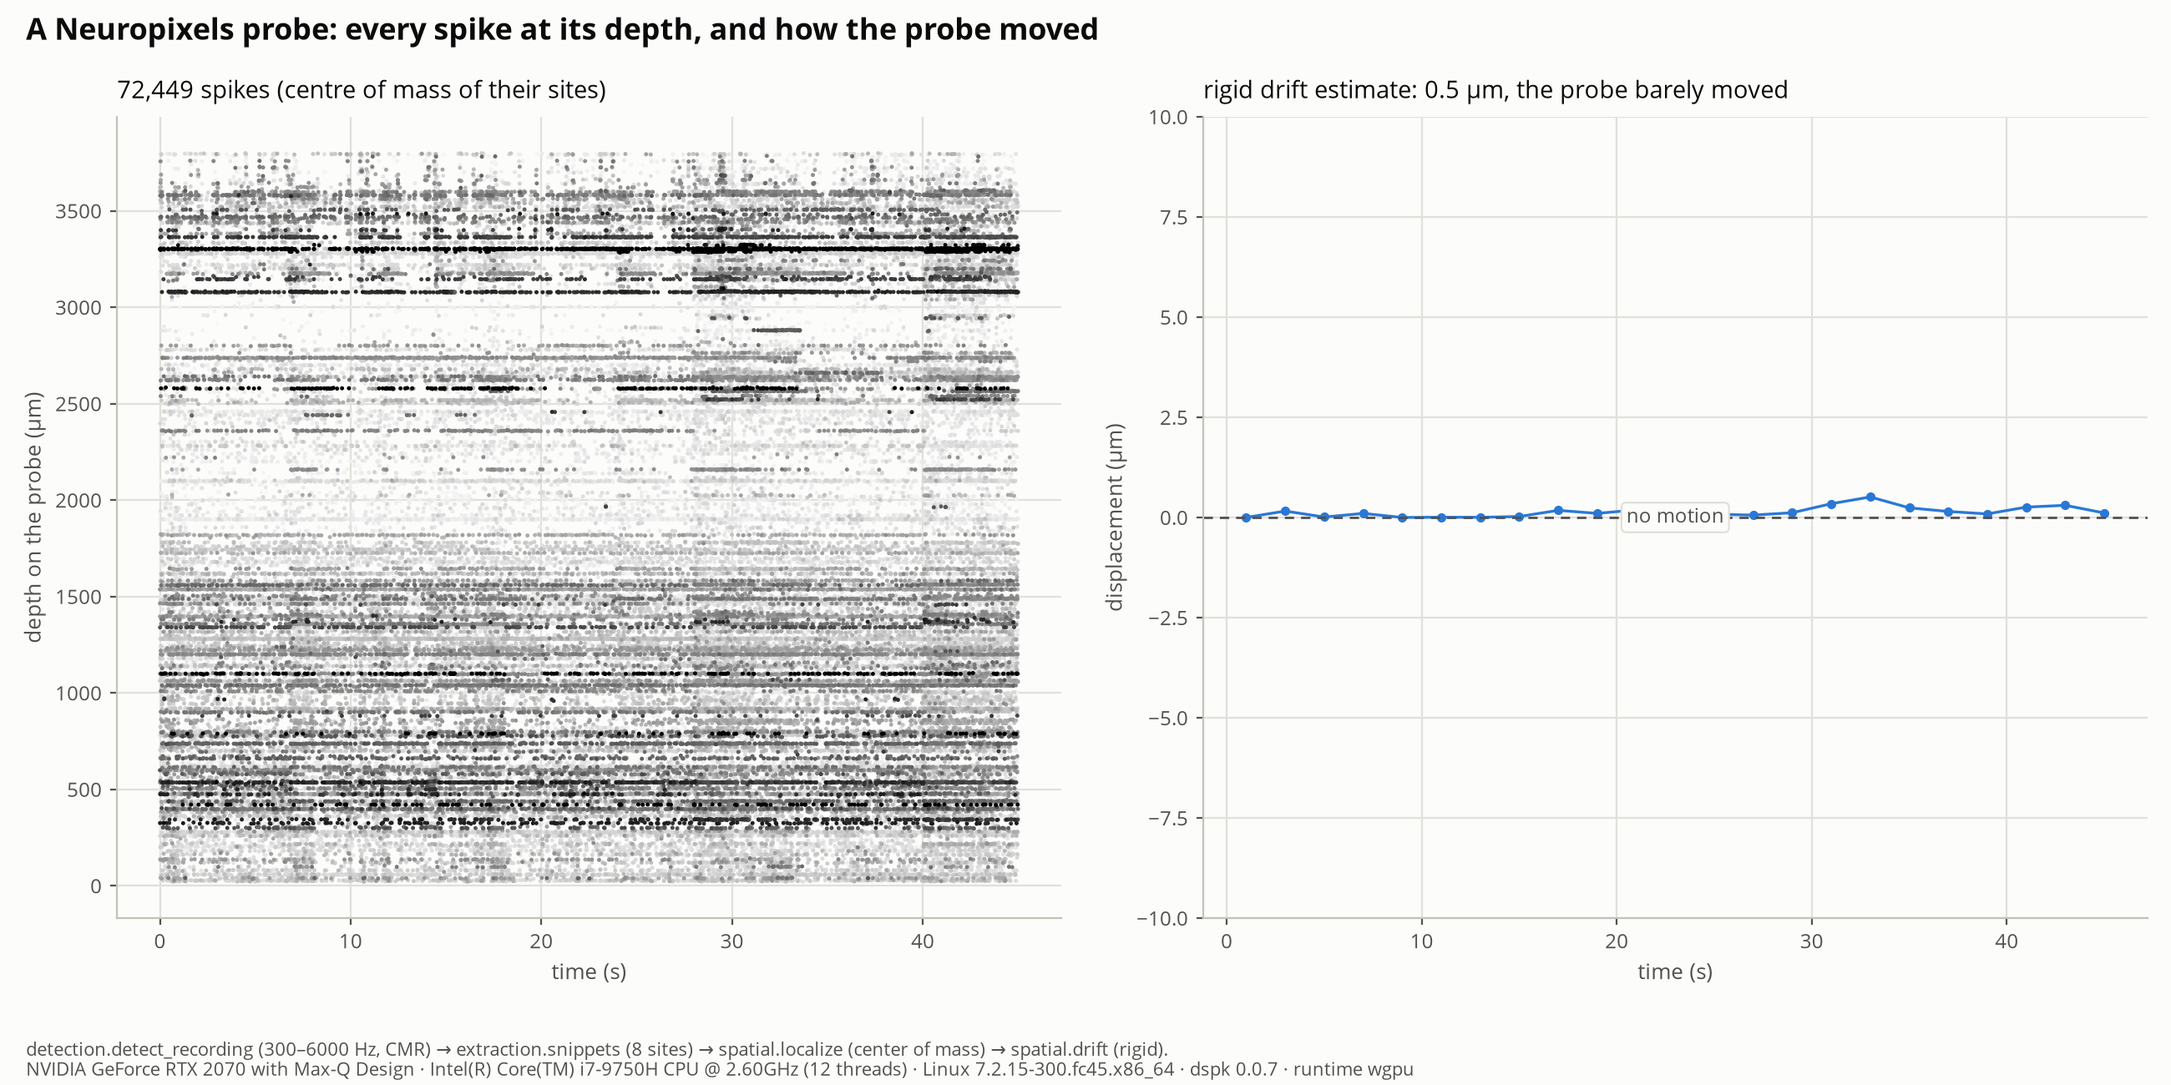
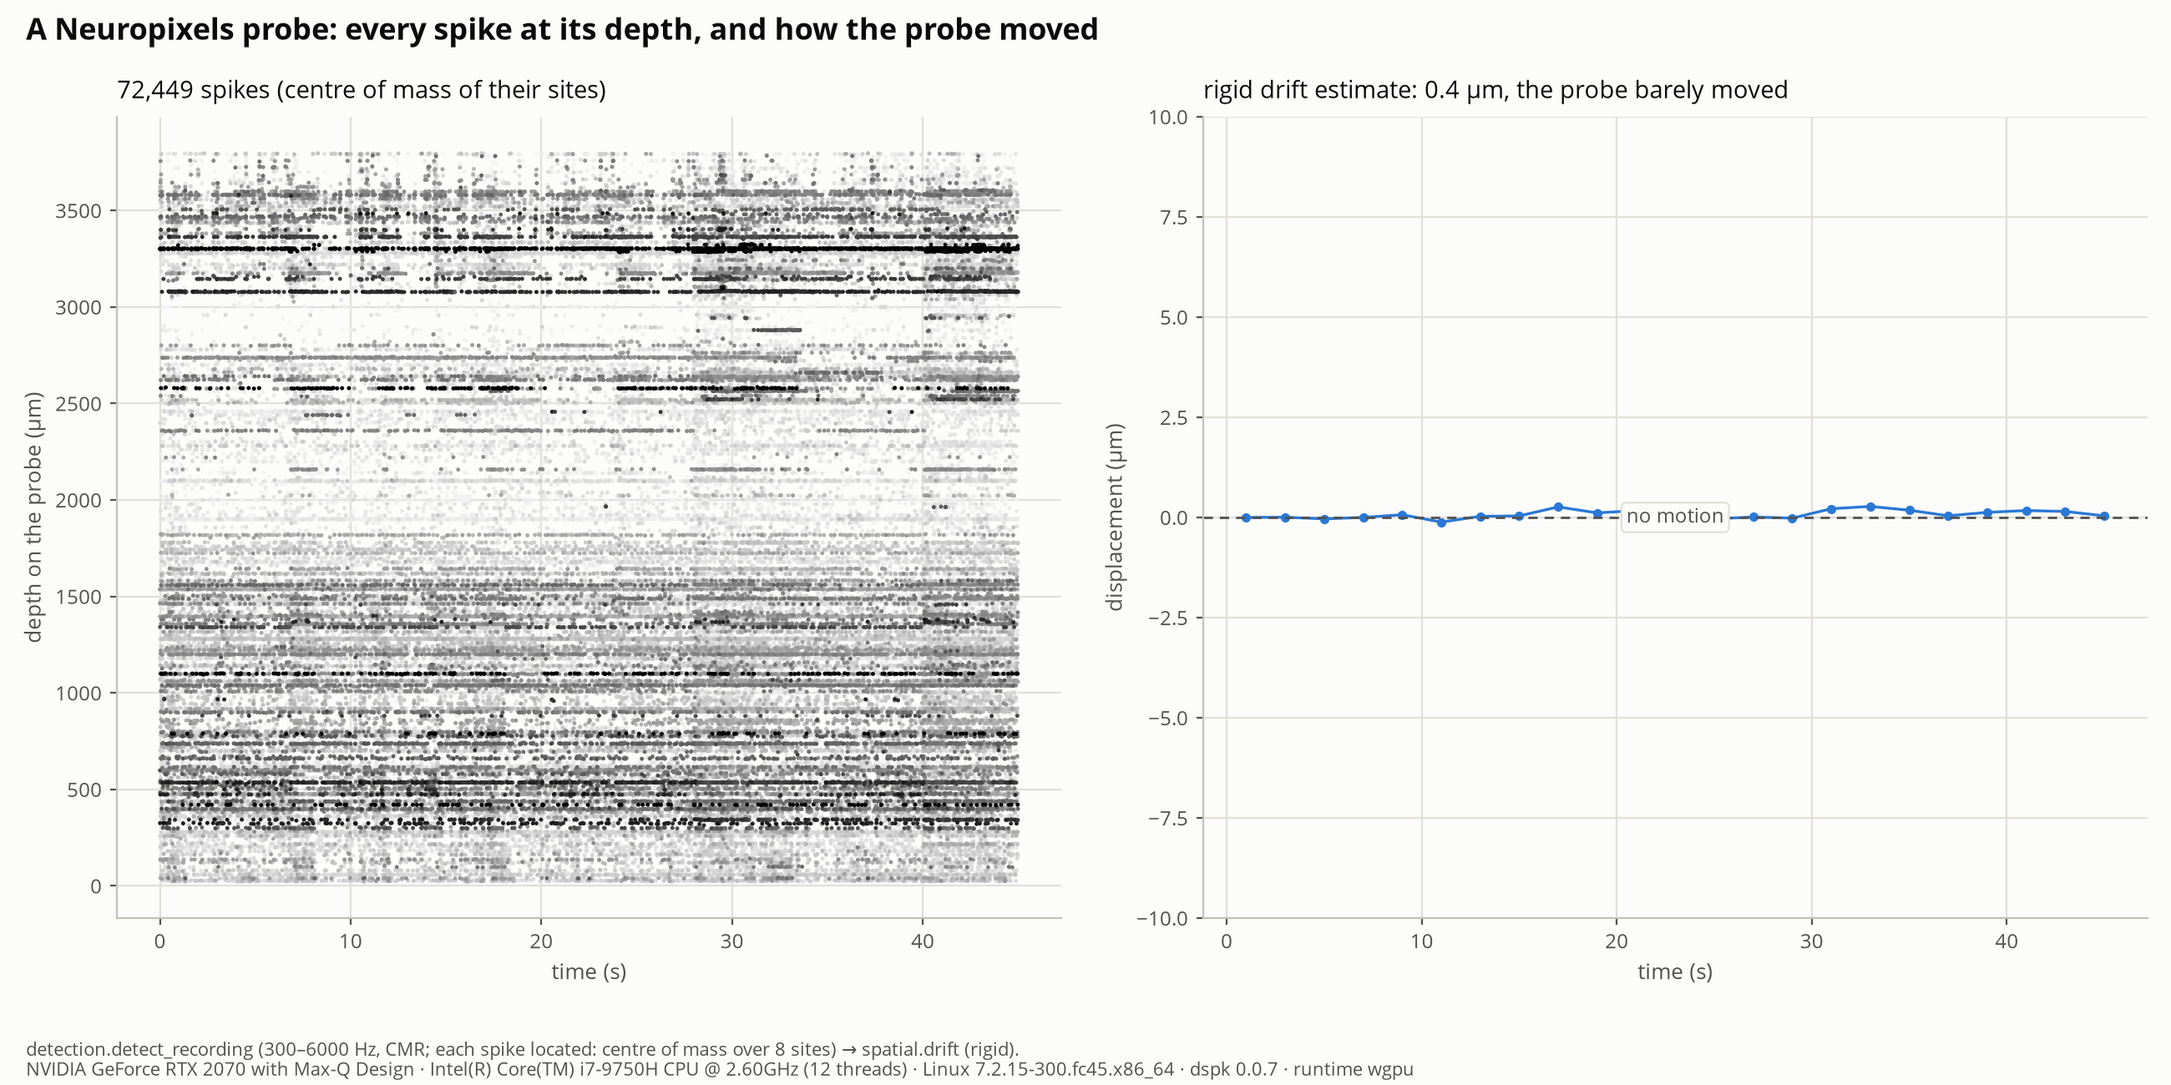
synapse: the streaming detector locates every spike (peak-to-peak of its snippet over its K neighbours on the device, centre of mass on the host; locate setting, dspk detect --locate, detect_recording(locate=True)); sortings carry the locations instead of NaN; playground 09 uses them

diff --git a/synapse/dspk-synapse/src/streaming/runner.rs b/synapse/dspk-synapse/src/streaming/runner.rs
@@ -17,7 +17,12 @@ use crate::detection::{SpikeSpacing, StreamingDedup, detection_heights, execute_
 use crate::extraction::{execute_extract_sinc_in_vram, extraction_margin};
 use super::accumulator::TemplateAccumulator;
 use super::config::StreamingDetectionConfig;
-use super::kernels::execute_reduce_templates_in_vram;
+use super::kernels::{execute_reduce_templates_in_vram, execute_snippet_peak_to_peak};
+use crate::spatial::localize_spike_center_of_mass;
+
+/// Exponent of the peak-to-peak heights in the centre of mass that locates each spike (1: the
+/// heights themselves, as `CenterOfMassLocalizer`'s default).
+pub const LOCATION_POWER: f32 = 1.0;
 
 /// Result of running out-of-core threshold spike sorting over a recording.
 #[derive(Debug, Clone)]
@@ -42,6 +47,9 @@ pub struct StreamingDetectionResult {
     pub channel_templates: Vec<Option<WaveformTemplate>>,
     /// Deduplicated spike events with global `sample_index` across the recording.
     pub spikes: Vec<DeduplicatedSpike>,
+    /// Location of each spike of `spikes` (µm, centre of mass over its K neighbours); empty when
+    /// not located (`StreamingDetectionConfig::locate`).
+    pub spike_locations_um: Vec<[f32; 3]>,
 }
 
 impl StreamingDetectionResult {
@@ -54,10 +62,15 @@ impl StreamingDetectionResult {
     ) -> SortingOutput {
         let mut per_ch_samples: Vec<Vec<u64>> = vec![Vec::new(); self.channels];
         let mut per_ch_amps: Vec<Vec<f32>> = vec![Vec::new(); self.channels];
-        for s in &self.spikes {
+        let mut per_ch_locs: Vec<Vec<[f32; 3]>> = vec![Vec::new(); self.channels];
+        let located = self.spike_locations_um.len() == self.spikes.len();
+        for (i, s) in self.spikes.iter().enumerate() {
             if s.primary_channel < self.channels {
                 per_ch_samples[s.primary_channel].push(s.sample_index);
                 per_ch_amps[s.primary_channel].push(s.peak_amplitude_uv);
+                if located {
+                    per_ch_locs[s.primary_channel].push(self.spike_locations_um[i]);
+                }
             }
         }
 
@@ -74,7 +87,7 @@ impl StreamingDetectionResult {
                 ch,
                 std::mem::take(&mut per_ch_samples[ch]),
                 std::mem::take(&mut per_ch_amps[ch]),
-                Vec::new(),
+                std::mem::take(&mut per_ch_locs[ch]),
                 template,
                 self.sample_rate_hz,
                 self.total_samples,
@@ -203,6 +216,8 @@ impl StreamingDetector {
         let mut total_raw_crossings = 0u64;
         let mut total_dedup_spikes = 0u64;
         let mut global_spikes = Vec::new();
+        let mut global_locations: Vec<[f32; 3]> = Vec::new();
+        let locate = self.config.locate;
         let elems_per_spike = k_neighbors * snippet_samples;
         let mut dedup = StreamingDedup::new(probe, self.config.spatial_radius_um, refrac_samples as u64);
         // Detection looks `spacing.distance()` samples past each window's own range (exact
@@ -262,6 +277,8 @@ impl StreamingDetector {
                 .collect();
 
             // 4. Extract Blackman-Harris sinc-realigned snippets and reduce moments directly in VRAM
+            //    (and locate each spike from its snippet's heights; unknown, NaN, if not extracted)
+            let mut locations = vec![[f32::NAN; 3]; if locate { finalized.len() } else { 0 }];
             if let Some(extracted) = execute_extract_sinc_in_vram::<f32>(
                 &client,
                 &filt_handle,
@@ -275,6 +292,14 @@ impl StreamingDetector {
                 self.config.apply_sinc_shift,
             ) {
                 debug_assert_eq!(extracted.dropped, 0, "finalized spikes lie inside the window");
+                if locate {
+                    let ptp = execute_snippet_peak_to_peak(&client, &extracted.snippets, extracted.kept.len(), k_neighbors, snippet_samples);
+                    for (row, (&spike, &primary)) in extracted.kept.iter().zip(&extracted.primaries).enumerate() {
+                        let p = primary as usize;
+                        let ids: Vec<usize> = knn_table[p * k_neighbors..(p + 1) * k_neighbors].iter().map(|&c| c as usize).collect();
+                        locations[spike] = localize_spike_center_of_mass(&ids, &ptp[row * k_neighbors..(row + 1) * k_neighbors], probe, LOCATION_POWER);
+                    }
+                }
                 let batch_stats = execute_reduce_templates_in_vram(
                     &client,
                     &extracted.snippets,
@@ -299,7 +324,8 @@ impl StreamingDetector {
                 }
             }
 
-            // 6. Record global spike timestamps
+            // 6. Record global spike timestamps (and locations)
+            global_locations.extend(locations);
             for d in finalized {
                 if d.primary_channel < channels {
                     channel_spike_counts[d.primary_channel] += 1;
@@ -337,6 +363,7 @@ impl StreamingDetector {
             channel_spike_counts,
             channel_templates,
             spikes: global_spikes,
+            spike_locations_um: global_locations,
         })
     }
 }

diff --git a/playground/09_sorting/01_detect_and_locate.py b/playground/09_sorting/01_detect_and_locate.py
@@ -5,8 +5,8 @@
 #
 # 1. **Detect** over the whole file, streaming on the device (`detect_recording`: band-pass, common
 #    median reference, threshold, merging across sites) — what `dspk detect` does.
-# 2. **Locate** each spike: snippets on its nearest sites, then the centre of mass of their
-#    peak-to-peak amplitudes (µm on the probe). Read in windows, so memory stays small.
+# 2. **Locate** each spike as it is detected: the centre of mass of its snippet's peak-to-peak
+#    heights over its nearest sites (µm on the probe), computed on the device with the snippets.
 # 3. **Drift**: spikes' depths over time show the probe moving in the brain (bands of activity
 #    bend); `spatial.drift` estimates that motion — what sorters correct before clustering.
 
@@ -17,7 +17,7 @@ import numpy as np
 
 import dspk
 import plating
-from dspk.synapse import detection, extraction, io, spatial
+from dspk.synapse import detection, io, spatial
 
 FIG = Path(__file__).parent / "figures"
 DATA = Path(__file__).resolve().parents[1] / "data" / "kilosort4" / "ZFM-02370_mini.imec0.ap.short.bin"
@@ -29,23 +29,12 @@ probe = io.Probe.preset("neuropixels1")  # 384 sites; the file's channel 385 is 
 fs, total = rec.sample_rate, rec.samples
 print(rec)
 
-# 1. Detection over the whole recording (streamed in batches on the device)
-sorting, summary = detection.detect_recording(rec, probe, car=True)
+# 1–2. Detection over the whole recording (streamed in batches on the device), each spike located
+# from its 8 nearest sites
+sorting, summary = detection.detect_recording(rec, probe, car=True, k_neighbors=8)
 spikes = sorting.spikes()
+positions = spikes["locations"]
 print(f"{summary['spikes']} spikes after merging ({summary['raw_crossings']} threshold crossings)")
-
-# 2. Locate: windows of WINDOW_S, each band-passed and median-referenced, snippets of its spikes
-WINDOW_S, MARGIN_S = 5.0, 0.05
-sites = list(range(len(probe)))
-positions = np.full((spikes["samples"].size, 3), np.nan, dtype=np.float32)
-step, margin = int(WINDOW_S * fs), int(MARGIN_S * fs)
-for a in range(0, total, step):
-    lo, hi = max(0, a - margin), min(total, a + step + margin)
-    x = dspk.ops.spatial.cmr(dspk.ops.filter.iir(rec.read(channels=sites, start=lo, stop=hi), fs, "bandpass", [300.0, 6000.0]))
-    inside = np.flatnonzero((spikes["samples"] >= a) & (spikes["samples"] < min(a + step, total)))
-    local = {"samples": spikes["samples"][inside] - lo, "channels": spikes["units"][inside].astype(np.uint32)}
-    snip = extraction.snippets(x, local, probe, fs, k=8, pre_ms=0.5, post_ms=1.0)
-    positions[inside[snip["kept"]]] = spatial.localize(snip, probe, method="center_of_mass")
 ok = ~np.isnan(positions[:, 1])
 print(f"located {ok.mean():.0%} of the spikes")
 
@@ -68,4 +57,4 @@ right.set_xlabel("time (s)")
 right.set_ylabel("displacement (µm)")
 right.set_ylim(-10, 10)  # on the scale of a site pitch (20 µm): this probe barely moved
 right.set_title(f"rigid drift estimate: {np.ptp(drift['drift_um']):.1f} µm, the probe barely moved")
-plating.save(fig, FIG / "01_detect_and_locate.png", note="detection.detect_recording (300–6000 Hz, CMR) → extraction.snippets (8 sites) → spatial.localize (center of mass) → spatial.drift (rigid).")
+plating.save(fig, FIG / "01_detect_and_locate.png", note="detection.detect_recording (300–6000 Hz, CMR; each spike located: centre of mass over 8 sites) → spatial.drift (rigid).")

diff --git a/bindings/python/python/dspk/synapse/detection.py b/bindings/python/python/dspk/synapse/detection.py
@@ -79,18 +79,19 @@ def deduplicate(spikes: dict, probe: Probe, sample_rate: float, *, radius_um: fl
 def detect_recording(recording, probe: Probe, *, band: tuple[float, float] = DEFAULT_BAND, car: bool = False, threshold: float = DEFAULT_RECORDING_THRESHOLD,  # noqa: A002
                      refractory_ms: float = DEFAULT_REFRACTORY_MS, polarity: str = "negative", spacing: str = "locally_exclusive",
                      radius_um: float = DEFAULT_RADIUS_UM, k_neighbors: int = DEFAULT_K_NEIGHBORS, pre_ms: float = DEFAULT_PRE_MS,
-                     post_ms: float = DEFAULT_POST_MS, sinc_shift: bool = True, batch_s: float = DEFAULT_BATCH_S,
+                     post_ms: float = DEFAULT_POST_MS, sinc_shift: bool = True, locate: bool = True, batch_s: float = DEFAULT_BATCH_S,
                      calibration_s: float = DEFAULT_CALIBRATION_S, calibration_chunks: int = DEFAULT_CALIBRATION_CHUNKS,
                      runtime: str | None = None) -> tuple[Sorting, dict]:
     """Detects spikes over a whole :class:`dspk.io.Recording`, read in place in ``batch_s`` batches
     (optional CAR, zero-phase band-pass, noise calibrated on spread-out chunks, crossings,
-    spatial de-duplication, snippets, per-channel templates) as ``dspk detect``. Returns a
-    :class:`Sorting` (one unit per channel) and a summary (``sigmas_uv``, ``raw_crossings``,
-    ``spikes``, ``channel_counts``)."""
+    spatial de-duplication, snippets, per-channel templates) as ``dspk detect``; with ``locate``,
+    every spike located (centre of mass of its snippet's heights over its ``k_neighbors``: the
+    sorting's ``spikes()["locations"]``, else NaN). Returns a :class:`Sorting` (one unit per
+    channel) and a summary (``sigmas_uv``, ``raw_crossings``, ``spikes``, ``channel_counts``)."""
     native, summary = _d.detect_recording(
         recording, probe._native, band=tuple(band), car=car, threshold=threshold, refractory_ms=refractory_ms, polarity=polarity,
         spacing=spacing, radius_um=radius_um, k_neighbors=k_neighbors, pre_ms=pre_ms, post_ms=post_ms, sinc_shift=sinc_shift,
-        batch_s=batch_s, calibration_s=calibration_s, calibration_chunks=calibration_chunks, runtime=runtime,
+        locate=locate, batch_s=batch_s, calibration_s=calibration_s, calibration_chunks=calibration_chunks, runtime=runtime,
     )
     return Sorting(native), summary
 

diff --git a/synapse/dspk-synapse/src/streaming/kernels/peak_to_peak.rs b/synapse/dspk-synapse/src/streaming/kernels/peak_to_peak.rs
@@ -1,0 +1,47 @@
+use cubecl::prelude::*;
+use dspk_core::compute::element_position;
+use dspk_core::compute::LaunchGeometry;
+
+/// Peak-to-peak height of every row of `[rows, snippet_len]` snippets (`rows` = spikes × K
+/// neighbours): one unit per row.
+#[cube(launch)]
+pub fn snippet_peak_to_peak_kernel(snippets: &[f32], out: &mut [f32], rows: u32, snippet_len: u32) {
+    let row = element_position() as u32;
+    if row < rows {
+        let base = row * snippet_len;
+        let mut lo = snippets[base as usize];
+        let mut hi = lo;
+        let mut t = 1u32;
+        while t < snippet_len {
+            let v = snippets[(base + t) as usize];
+            lo = f32::min(lo, v);
+            hi = f32::max(hi, v);
+            t += 1u32;
+        }
+        out[row as usize] = hi - lo;
+    }
+}
+
+/// Peak-to-peak height per `(spike, neighbour)` of extracted `[spikes, k_neighbors, snippet_len]`
+/// snippets in VRAM, downloaded (`spikes × k_neighbors` values: what localisation needs, not the
+/// waveforms).
+pub fn execute_snippet_peak_to_peak(client: &Client, snippets: &cubecl::server::Handle, spikes: usize, k_neighbors: usize, snippet_len: usize) -> Vec<f32> {
+    let rows = spikes * k_neighbors;
+    if rows == 0 || snippet_len == 0 {
+        return Vec::new();
+    }
+    let out = client.empty(rows * std::mem::size_of::<f32>());
+    let geom = LaunchGeometry::elementwise(client, rows);
+    unsafe {
+        snippet_peak_to_peak_kernel::launch(
+            client,
+            geom.cube_count,
+            geom.cube_dim,
+            BufferArg::from_raw_parts(snippets.clone(), rows * snippet_len),
+            BufferArg::from_raw_parts(out.clone(), rows),
+            rows as u32,
+            snippet_len as u32,
+        );
+    }
+    f32::from_bytes(&client.read_one(out).expect("VRAM read peak-to-peak")).to_vec()
+}

diff --git a/synapse/dspk-synapse/tests/streaming_invariance.rs b/synapse/dspk-synapse/tests/streaming_invariance.rs
@@ -182,6 +182,33 @@ fn spikes_are_identical_for_any_batch_size_and_whole_recording() {
     }
 }
 
+/// Every spike is located (centre of mass of its snippet's heights over its neighbours): the same
+/// for any batch size, near its primary channel, carried into the sorting; `locate: false` leaves
+/// them unknown.
+#[test]
+fn spikes_are_located_whatever_the_batch_size() {
+    let rec = recording();
+    let layout = probe();
+    let runs: Vec<_> = [1.0, 10.0].iter().map(|&b| StreamingDetector::new(config(b)).run_with(default_target(), &rec, &pipeline(), &layout).unwrap()).collect();
+    for r in &runs {
+        assert_eq!(r.spike_locations_um.len(), r.spikes.len());
+        for (s, p) in r.spikes.iter().zip(&r.spike_locations_um) {
+            assert!(p.iter().all(|v| v.is_finite()), "spike at {} not located", s.sample_index);
+            let site = layout.get_site(s.primary_channel).unwrap().position;
+            let d = ((p[0] - site.x_um).powi(2) + (p[1] - site.y_um).powi(2)).sqrt();
+            assert!(d < 40.0, "spike at {} placed {d:.0} µm from its channel", s.sample_index);
+        }
+    }
+    for (a, b) in runs[0].spike_locations_um.iter().zip(&runs[1].spike_locations_um) {
+        assert!((0..3).all(|i| (a[i] - b[i]).abs() < 0.5), "{a:?} vs {b:?}");
+    }
+    let sorting = runs[0].to_sorting_output("test", Some(layout.clone()));
+    let (_, _, _, locations) = sorting.flattened_spikes();
+    assert!(locations.iter().all(|p| p.iter().all(|v| v.is_finite())), "locations reach the sorting");
+    let off = StreamingDetectionConfig { locate: false, ..config(10.0) };
+    assert!(StreamingDetector::new(off).run_with(default_target(), &rec, &pipeline(), &layout).unwrap().spike_locations_um.is_empty());
+}
+
 #[test]
 fn every_runtime_returns_the_same_spikes() {
     use dspk_core::ComputeTarget;

diff --git a/bindings/python/dspk-py-synapse/src/detection.rs b/bindings/python/dspk-py-synapse/src/detection.rs
@@ -134,12 +134,13 @@ pub fn deduplicate<'py>(py: Python<'py>, samples: PyReadonlyArray1<'_, u64>, cha
 
 /// The streaming detector over a whole recording, read in place in batches: optional CAR, a
 /// zero-phase band-pass, noise calibrated on spread-out chunks, threshold crossings, spatial
-/// de-duplication, snippets and per-channel templates — as `dspk detect`. Returns the spikes as a
+/// de-duplication, snippets and per-channel templates, every spike located (`locate`: the centre
+/// of mass of its snippet's heights over its neighbours) — as `dspk detect`. Returns the spikes as a
 /// [`Sorting`] (one unit per channel) and a summary (`sigmas_uv`, `raw_crossings`, `spikes`,
 /// `channel_counts`).
 #[gen_stub_pyfunction(module = "dspk._native.synapse.detection")]
 #[pyfunction]
-#[pyo3(signature = (recording, probe, *, band, car, threshold, refractory_ms, polarity, spacing, radius_um, k_neighbors, pre_ms, post_ms, sinc_shift, batch_s, calibration_s, calibration_chunks, runtime))]
+#[pyo3(signature = (recording, probe, *, band, car, threshold, refractory_ms, polarity, spacing, radius_um, k_neighbors, pre_ms, post_ms, sinc_shift, locate, batch_s, calibration_s, calibration_chunks, runtime))]
 #[allow(clippy::too_many_arguments)]
 pub fn detect_recording<'py>(
     py: Python<'py>,
@@ -156,6 +157,7 @@ pub fn detect_recording<'py>(
     pre_ms: f64,
     post_ms: f64,
     sinc_shift: bool,
+    locate: bool,
     batch_s: f64,
     calibration_s: f64,
     calibration_chunks: usize,
@@ -174,6 +176,7 @@ pub fn detect_recording<'py>(
         pre_ms,
         post_ms,
         apply_sinc_shift: sinc_shift,
+        locate,
     };
     let mut pipeline = Pipeline::new();
     if car {

diff --git a/app/dspk-cli/src/commands/detect.rs b/app/dspk-cli/src/commands/detect.rs
@@ -80,6 +80,10 @@ pub struct DetectArgs {
     /// Realign snippets to the sub-sample trough
     #[arg(long, default_value_t = DEFAULTS.apply_sinc_shift, action = clap::ArgAction::Set)]
     sinc_shift: bool,
+
+    /// Locate every spike (centre of mass of its snippet's heights over its neighbours)
+    #[arg(long, default_value_t = DEFAULTS.locate, action = clap::ArgAction::Set)]
+    locate: bool,
     /// Length of each processing window (s); memory only, not results
     #[arg(long, default_value_t = DEFAULTS.batch_duration_sec)]
     batch_sec: f64,
@@ -113,6 +117,7 @@ impl DetectArgs {
             pre_ms: self.pre_ms,
             post_ms: self.post_ms,
             apply_sinc_shift: self.sinc_shift,
+            locate: self.locate,
         }
     }
 

diff --git a/bindings/python/tests/test_synapse_detection.py b/bindings/python/tests/test_synapse_detection.py
@@ -83,3 +83,9 @@ def test_detect_recording_streams_a_file(tmp_path, recording):
     assert summary["spikes"] > 0 and summary["sigmas_uv"].shape == (CHANNELS,)
     spikes = sorting.spikes()
     assert near(spikes["samples"], times).mean() >= 0.9
+    # Every spike located between the two channels that see it (y 20 and 40 µm), nearer the larger
+    y = spikes["locations"][:, 1]
+    assert np.all(np.isfinite(spikes["locations"]))
+    assert 20.0 <= np.median(y) <= 32.0, np.median(y)
+    unlocated, _ = detection.detect_recording(dspk.io.open(tmp_path / "r.bin"), probe, batch_s=0.5, calibration_s=1.0, locate=False)
+    assert np.all(np.isnan(unlocated.spikes()["locations"]))

diff --git a/synapse/dspk-synapse/src/streaming/config.rs b/synapse/dspk-synapse/src/streaming/config.rs
@@ -48,6 +48,9 @@ pub struct StreamingDetectionConfig {
     pub post_ms: f64,
     /// Whether to apply sub-sample windowed-sinc (Blackman-Harris) realignment (default: `true`).
     pub apply_sinc_shift: bool,
+    /// Whether to locate every spike: the centre of mass of its snippet's peak-to-peak heights
+    /// over its K neighbours (default: `true`; else locations are unknown, NaN).
+    pub locate: bool,
 }
 
 impl Default for StreamingDetectionConfig {
@@ -65,6 +68,7 @@ impl Default for StreamingDetectionConfig {
             pre_ms: 1.0,
             post_ms: 2.0,
             apply_sinc_shift: true,
+            locate: true,
         }
     }
 }

diff --git a/synapse/dspk-synapse/src/streaming/kernels/mod.rs b/synapse/dspk-synapse/src/streaming/kernels/mod.rs
@@ -1,5 +1,7 @@
+pub mod peak_to_peak;
 pub mod template_reduce;
 
+pub use peak_to_peak::execute_snippet_peak_to_peak;
 pub use template_reduce::{BatchTemplateStats, execute_reduce_templates_in_vram};
 
 #[cfg(test)]
